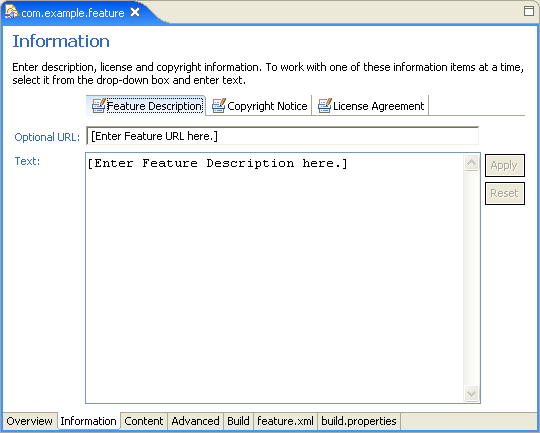
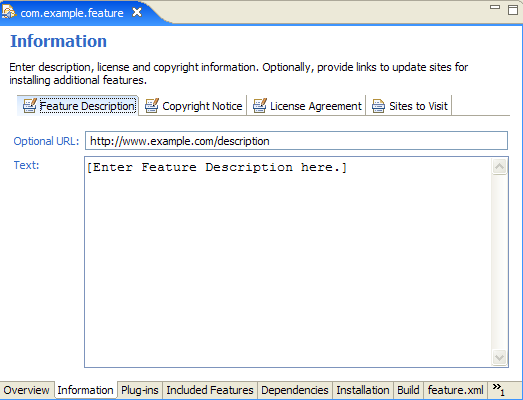
*** empty log message ***

Changed region(s): [[0.0, 0.0, 1.0, 1.0]]

diff --git a/bundles/org.eclipse.pde.doc.user/guide/pde_feature_manifest.htm b/bundles/org.eclipse.pde.doc.user/guide/pde_feature_manifest.htm
@@ -10,72 +10,51 @@
 <BODY BGCOLOR="#ffffff">
 
 <h2>Feature manifest editor</h2>
-<p>The feature manifest editor uses the same concepts seen in the other PDE editors. It has 
-four form pages
-(Overview, Information, Content and Advanced) and a source page that shows you raw XML code of the
-manifest file. If build.properties file is present in the project, additional 
-page (Build) shows up allowing you to configure how the feature will be built. 
-Source page for the build.properties file will also appear in this case. </p>
+<p>The feature manifest editor uses the same concepts seen in the other PDE editors. 
+</p>
 <p align="center">
 <img border="0" src="images/feature-overview.png" alt="Feature manifest editor - Overview page" ></p>
-<p align="left">Information that is entered during the feature project setup
-can be changed on the Overview page. In addition, you can provide URLs for <b> 
-update site</b> and <b>
-discovery sites</b> in the property
-sheet. The update site URL is used by the Update Manager when searching for
-new updates.&nbsp; The discovery site URLs are used to point users to other interesting
-features and/or sites.</p>
-<p align="left">You can provide your own banner image that will be used in the
-Update Manager when users browse your feature. If you mark the feature as
-'primary', it will be treated as a 'product' feature and will have additional
-responsibilities (providing 'About' information, splash screen etc.). Finally, 
-you can require an exclusive install for your feature if it should be take part 
-in batch installation (several features at once).</p>
+<p align="left">Information that is entered during the feature project setup can 
+  be changed on the Overview page. In addition, you can provide anr <b> update 
+  site</b> URL to be used by the Update Manager when searching for new updates.&nbsp; 
+</p>
 <p align="left">Branding information for primary features is stored in a 
 branding plug-in. If not explicitly set, Eclipse will assume that the branding 
 plug-in has the same identifier as the feature.</p>
-<p align="left">By default, your feature is treated as universally portable. You
-can add constraints by providing supported operating/windowing systems,
-languages and/or system architectures. This information will be used to ensure
-that your feature is not installed or shown in the context that does not match
-these constraints.</p>
-<p align="left">Features are required to provide description, license and
-copyright information. This information can be edited on the Information page.
-Each of these three categories can be represented as either text or a URL that
-points to a valid HTML page. Although URL can be absolute, HTML pages are
-typically provided with the feature and URLs are relative to the project root.</p>
-<p align="center">
-<img border="0" src="images/feature-overview-info.png" alt="Feature manifest editor - Information page" ></p>
-<p align="left">Plug-ins and fragments that are part of your feature are
-listed in the Content page. Pressing the <b>Add...</b> button brings up a list of
-checkboxes representing all of the valid
-plug-ins and fragments in the workspace. If you double-click on a
-plug-in or fragment entry, the plug-in or fragment manifest editor will open for
-the selected item.</p>
-<p align="center">
-<img border="0" src="images/feature-content.png" alt="Feature manifest editor - Content page" ></p>
-<p align="left">Required plug-ins are plug-ins that are not part of the feature
-but must be present in the target platform as a prerequisite for installing the
-feature. If any of these plug-ins are missing, the feature will not be installed.
-Required plug-ins can be computed based on collective dependency information in
-plug-ins and fragments, or added manually using the <b>Add Plug-in...</b> button. The
-requirement can be based solely on plug-in IDs, or further constrained using
-expected versions and match rules.</p>
-<p align="left">Similar to plug-ins, features can be used as prerequisites. 
-Similar rules apply. The distinct difference is that feature dependency is 
-required when <b>patch</b> checkbox needs to be selected. See feature manifest 
-reference for more details.</p>
-<p align="left">In addition to these standard pages, feature manifest can be
-used to set more advanced feature manifest data. Larger features may be built by
-including other features, thus creating a feature hierarchy. In addition to
-plug-ins, opaque data entries can be specified to carry custom feature
-information. These entries usually come together with custom install handlers.
-Install handlers can be used to perform non-standard install tasks and
-manipulate data entries once they are downloaded by the Update Manager. You can
-read more about this and other feature issues in Platform Install and Update
-guide.</p>
-<p align="center">
-<img border="0" src="images/feature-advanced.png" alt="Feature manifest editor - Advanced page" ></p>
+<p align="left">By default, your feature is treated as universally portable. You 
+  can add constraints by providing supported operating/windowing systems, languages 
+  and/or system architectures. This information will be used to ensure that your 
+  feature is not installed or shown in the context that does not match these constraints.</p>
+<p align="center"> <img border="0" src="images/feature-overview-info.png" alt="Feature manifest editor - Information page" ></p>
+<p align="left">Features are required to provide description, license and copyright 
+  information. This information can be edited on the Information page. Each of 
+  these three categories can be represented as either text or a URL that points 
+  to a valid HTML page. Although URL can be absolute, HTML pages are typically 
+  provided with the feature and URLs are relative to the project root.</p>
+<p align="left">The <strong>Sites To Visit</strong> tab lists URLs that are used 
+  to point users to other interesting features and/or sites.</p>
+<p align="center"> <img border="0" src="images/feature-content.png" alt="Feature manifest editor - Content page" ></p>
+<p align="left">The plug-ins and fragments to be packaged in this feature are 
+  listed on the <strong>Plug-ins</strong> page. If a plug-in and/or fragment contains 
+  platform-specific code, then environment conditions should be specified and 
+  associated with that plug-in or fragment.</p>
+<p align="center"><img src="images/included-features.PNG" alt="Included Features"></p>
+<p align="left">A feature may include other features, thus creating a feature 
+  hierarchy. When the feature is built, all included features are recursively 
+  built and packaged.</p>
+<p align="center"><img src="images/feature-dependencies.PNG" alt="Feature dependencies"></p>
+<p align="left">This section lists all features and plug-ins that must be present 
+  in the product before the Update Manager installs this feature. If any of these 
+  pre-requisites is missing, the feature will not be installed. The requirement 
+  can be based solely on plug-in IDs, or further constrained using expected versions 
+  and match rules.</p>
+<p align="center"> <img border="0" src="images/feature-advanced.png" alt="Feature Installations page" ></p>
+<p align="left">In addition to plug-ins, opaque data entries can be specified 
+  to carry custom feature information. These entries usually come together with 
+  custom install handlers. Install handlers can be used to perform non-standard 
+  install tasks and manipulate data entries once they are downloaded by the Update 
+  Manager. You can read more about this and other feature issues in Platform Install 
+  and Update guide.</p>
 
 
 </body>
